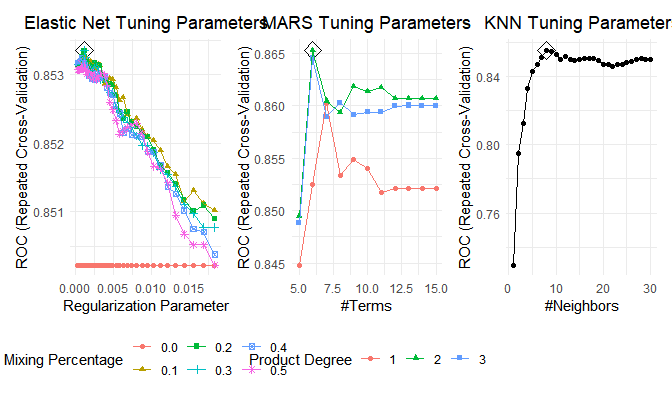
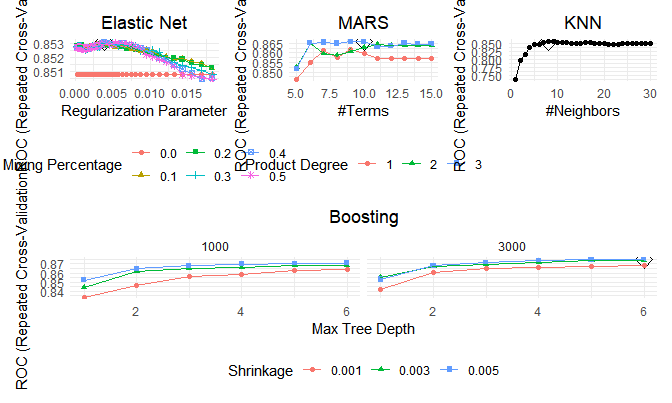
boost model optimized params

diff --git a/final_project.md b/final_project.md
@@ -939,48 +939,7 @@ set.seed(37564)
 
 ctrl = trainControl(method = "repeatedcv", summaryFunction = twoClassSummary, classProbs = T, number = 10, repeats = 5)
 
-mod_glm = train(survived ~ .,
-                na.action = na.exclude, 
-                data = train_df, 
-                method = "glm", 
-                family = "binomial", 
-                metric = "ROC", 
-                trControl = ctrl)
-summary(mod_glm)
-```
-
-    ## 
-    ## Call:
-    ## NULL
-    ## 
-    ## Deviance Residuals: 
-    ##     Min       1Q   Median       3Q      Max  
-    ## -2.7220  -0.6460  -0.3796   0.6329   2.4461  
-    ## 
-    ## Coefficients:
-    ##              Estimate Std. Error z value Pr(>|z|)    
-    ## (Intercept)  4.432931   0.535936   8.271  < 2e-16 ***
-    ## pclass2     -1.189637   0.329197  -3.614 0.000302 ***
-    ## pclass3     -2.395220   0.343356  -6.976 3.04e-12 ***
-    ## sexmale     -2.637859   0.223006 -11.829  < 2e-16 ***
-    ## age         -0.043308   0.008322  -5.204 1.95e-07 ***
-    ## sib_sp      -0.362925   0.129290  -2.807 0.005000 ** 
-    ## parch       -0.060365   0.123944  -0.487 0.626233    
-    ## fare         0.001451   0.002595   0.559 0.576143    
-    ## embarkedQ   -0.823379   0.600200  -1.372 0.170113    
-    ## embarkedS   -0.402848   0.274556  -1.467 0.142303    
-    ## ---
-    ## Signif. codes:  0 '***' 0.001 '**' 0.01 '*' 0.05 '.' 0.1 ' ' 1
-    ## 
-    ## (Dispersion parameter for binomial family taken to be 1)
-    ## 
-    ##     Null deviance: 960.90  on 711  degrees of freedom
-    ## Residual deviance: 632.34  on 702  degrees of freedom
-    ## AIC: 652.34
-    ## 
-    ## Number of Fisher Scoring iterations: 5
-
-``` r
+set.seed(37564)
 mod_enet = train(survived ~ .,
                  na.action = na.exclude, 
                  data = train_df, 
@@ -992,15 +951,16 @@ mod_enet = train(survived ~ .,
                  trControl = ctrl)
 tuning_plot_enet = 
   ggplot(mod_enet, highlight = T) + 
-  ggtitle("Elastic Net Tuning Parameters") +
+  ggtitle("Elastic Net") +
   theme(plot.title = element_text(hjust = 0.5))
 mod_enet$bestTune
 ```
 
     ##     alpha      lambda
-    ## 167   0.3 0.001238471
+    ## 231   0.4 0.003883492
 
 ``` r
+set.seed(37564)
 mod_mars = train(survived ~ ., 
                  na.action = na.exclude, 
                  data = train_df, 
@@ -1010,15 +970,16 @@ mod_mars = train(survived ~ .,
                  trControl = ctrl)
 tuning_plot_mars = 
   ggplot(mod_mars, highlight = T) + 
-  ggtitle("MARS Tuning Parameters") +
+  ggtitle("MARS") +
   theme(plot.title = element_text(hjust = 0.5))
 mod_mars$bestTune
 ```
 
     ##    nprune degree
-    ## 13      6      2
+    ## 28     10      3
 
 ``` r
+set.seed(37564)
 mod_knn = train(survived ~ .,
                 na.action = na.exclude, 
                 data = train_df, 
@@ -1029,7 +990,7 @@ mod_knn = train(survived ~ .,
                 trControl = ctrl)
 tuning_plot_knn = 
   ggplot(mod_knn, highlight = T) + 
-  ggtitle("KNN Tuning Parameters") +
+  ggtitle("KNN") +
   theme(plot.title = element_text(hjust = 0.5))
 mod_knn$bestTune
 ```
@@ -1038,13 +999,36 @@ mod_knn$bestTune
     ## 8 8
 
 ``` r
-tuning_plot_enet + tuning_plot_mars + tuning_plot_knn
+set.seed(37564)
+mod_boost = train(survived ~ .,
+                  na.action = na.exclude,
+                  data = train_df,
+                  method = "gbm",
+                  tuneGrid = expand.grid(n.trees = c(1000, 3000),
+                                         interaction.depth = 1:6,
+                                         shrinkage = c(0.001, 0.003, 0.005), 
+                                         n.minobsinnode = 1),
+                  metric = "ROC",
+                  trControl = ctrl,
+                  verbose = F)
+tuning_plot_boost = 
+  ggplot(mod_boost, highlight = T) + 
+  ggtitle("Boosting") +
+  theme(plot.title = element_text(hjust = 0.5))
+mod_boost$bestTune
+```
+
+    ##    n.trees interaction.depth shrinkage n.minobsinnode
+    ## 36    3000                 6     0.005              1
+
+``` r
+(tuning_plot_enet + tuning_plot_mars + tuning_plot_knn) / tuning_plot_boost
 ```
 
 <img src="final_project_files/figure-gfm/models-1.png" width="80%" style="display: block; margin: auto;" />
 
 ``` r
-res = resamples(list(GLM = mod_glm, ENET = mod_enet, MARS = mod_mars, KNN = mod_knn))
+res = resamples(list(ENET = mod_enet, MARS = mod_mars, KNN = mod_knn, BOOST = mod_boost))
 summary(res)
 ```
 
@@ -1052,29 +1036,29 @@ summary(res)
     ## Call:
     ## summary.resamples(object = res)
     ## 
-    ## Models: GLM, ENET, MARS, KNN 
+    ## Models: ENET, MARS, KNN, BOOST 
     ## Number of resamples: 50 
     ## 
     ## ROC 
-    ##           Min.   1st Qu.    Median      Mean   3rd Qu.      Max. NA's
-    ## GLM  0.7356322 0.8164989 0.8458204 0.8527283 0.8907659 0.9556650    0
-    ## ENET 0.7311166 0.8315887 0.8547753 0.8533538 0.8805272 0.9190199    0
-    ## MARS 0.7413793 0.8299920 0.8695679 0.8652635 0.9005542 0.9536125    0
-    ## KNN  0.7582102 0.8263823 0.8440066 0.8549761 0.8947044 0.9527915    0
+    ##            Min.   1st Qu.    Median      Mean   3rd Qu.      Max. NA's
+    ## ENET  0.7380952 0.8165637 0.8446176 0.8531036 0.8905434 0.9556650    0
+    ## MARS  0.7479475 0.8370589 0.8653053 0.8657740 0.8949097 0.9474548    0
+    ## KNN   0.7676519 0.8245074 0.8552736 0.8550413 0.8808498 0.9330870    0
+    ## BOOST 0.7654370 0.8421784 0.8723317 0.8750384 0.9051438 0.9534884    0
     ## 
     ## Sens 
-    ##           Min.   1st Qu.    Median      Mean   3rd Qu.      Max. NA's
-    ## GLM  0.6904762 0.8139535 0.8571429 0.8495127 0.8809524 0.9761905    0
-    ## ENET 0.7380952 0.8187984 0.8571429 0.8519158 0.8809524 0.9523810    0
-    ## MARS 0.6904762 0.8139535 0.8604651 0.8579845 0.9047619 1.0000000    0
-    ## KNN  0.7209302 0.8343023 0.8604651 0.8684275 0.9047619 0.9534884    0
+    ##            Min.   1st Qu.    Median      Mean   3rd Qu.      Max. NA's
+    ## ENET  0.7142857 0.8139535 0.8604651 0.8561351 0.8837209 0.9761905    0
+    ## MARS  0.7619048 0.8333333 0.8809524 0.8702436 0.9047619 0.9761905    0
+    ## KNN   0.7441860 0.8333333 0.8809524 0.8664563 0.9047619 0.9767442    0
+    ## BOOST 0.7380952 0.8571429 0.8823367 0.8899889 0.9298173 1.0000000    0
     ## 
     ## Spec 
-    ##           Min.   1st Qu.    Median      Mean   3rd Qu.      Max. NA's
-    ## GLM  0.5172414 0.6551724 0.7241379 0.7114039 0.7586207 0.8620690    0
-    ## ENET 0.5172414 0.6551724 0.7019704 0.7043596 0.7564655 0.8965517    0
-    ## MARS 0.4482759 0.6610222 0.7241379 0.7195320 0.7844828 0.8965517    0
-    ## KNN  0.4827586 0.6071429 0.6551724 0.6711330 0.7241379 0.8928571    0
+    ##            Min.   1st Qu.    Median      Mean   3rd Qu.      Max. NA's
+    ## ENET  0.5172414 0.6551724 0.7241379 0.7051970 0.7586207 0.8275862    0
+    ## MARS  0.5172414 0.6551724 0.7142857 0.7122167 0.7586207 0.8965517    0
+    ## KNN   0.4827586 0.6206897 0.6785714 0.6745567 0.7241379 0.8620690    0
+    ## BOOST 0.5517241 0.6896552 0.7241379 0.7281773 0.7912562 0.8965517    0
 
 ``` r
 bwplot(res, metric = "ROC", main = "ROC for Repeated 10-Fold CV Using Various Models")
@@ -1086,18 +1070,6 @@ bwplot(res, metric = "ROC", main = "ROC for Repeated 10-Fold CV Using Various Mo
 
 ``` r
 set.seed(37564)
-
-#vip(mod_glm, 
-#    method = "permute", 
-#    train = train_df,
-#    target = "survived",
-#    metric = "auc",
-#    reference_class = c("yes", "no"),
-#    nsim = 1000,
-#    pred_wrapper = predict,
-#    geom = "boxplot", 
-#    all_permutations = T,
-#    mapping = aes_string(fill = "Variable", alpha = 0.75))
 
 #vip(mod_enet, 
 #    method = "permute", 
@@ -1111,22 +1083,18 @@ set.seed(37564)
 #    all_permutations = T,
 #    mapping = aes_string(fill = "Variable", alpha = 0.75))
 
-vip(mod_mars, 
-    method = "permute", 
-    train = train_df,
-    target = "survived",
-    metric = "auc",
-    reference_class = c("yes", "no"),
-    nsim = 1000,
-    pred_wrapper = predict,
-    geom = "boxplot", 
-    all_permutations = T,
-    mapping = aes_string(fill = "Variable", alpha = 0.75))
-```
+#vip(mod_mars, 
+#    method = "permute", 
+#    train = train_df,
+#    target = "survived",
+#    metric = "auc",
+#    reference_class = c("yes", "no"),
+#    nsim = 30,
+#    pred_wrapper = predict,
+#    geom = "boxplot", 
+#    all_permutations = T,
+#    mapping = aes_string(fill = "Variable", alpha = 0.75))
 
-<img src="final_project_files/figure-gfm/vip-1.png" width="80%" style="display: block; margin: auto;" />
-
-``` r
 #vip(mod_knn, 
 #    method = "permute", 
 #    train = train_df,
@@ -1138,4 +1106,59 @@ vip(mod_mars,
 #    geom = "boxplot", 
 #    all_permutations = T,
 #    mapping = aes_string(fill = "Variable", alpha = 0.75))
+
+vip(mod_boost, 
+    method = "permute", 
+    train = train_df,
+    target = "survived",
+    metric = "auc",
+    reference_class = c("yes", "no"),
+    nsim = 30,
+    pred_wrapper = predict,
+    geom = "boxplot", 
+    all_permutations = T,
+    mapping = aes_string(fill = "Variable", alpha = 0.75))
 ```
+
+<img src="final_project_files/figure-gfm/vip-1.png" width="80%" style="display: block; margin: auto;" />
+
+## Prediction
+
+``` r
+set.seed(37564)
+
+test_df = 
+  read_csv("./data/test.csv") %>% 
+  janitor::clean_names() %>% 
+  mutate(pclass = as.factor(pclass), 
+         sex = as.factor(sex), 
+         embarked = as.factor(embarked)) %>% 
+  select(-c(ticket, cabin, name, passenger_id)) %>% 
+  drop_na()
+
+pred_mars = predict(mod_mars, newdata = test_df, type = "prob")[,1]
+pred_boost = predict(mod_boost, newdata = test_df, type = "prob")[,1]
+diff_df = 
+  tibble(pred_boost, pred_mars) %>% 
+  mutate(
+    boost_surv = ifelse(pred_boost > 0.5, "Y", "N"), 
+    mars_surv = ifelse(pred_mars > 0.5, "Y", "N"), 
+    diff = ifelse(boost_surv == mars_surv, "Y", "N"))
+diff_df %>% 
+  filter(diff == "N")
+```
+
+    ## # A tibble: 34 x 5
+    ##    pred_boost pred_mars boost_surv mars_surv diff 
+    ##         <dbl>     <dbl> <chr>      <chr>     <chr>
+    ##  1      0.889    0.349  Y          N         N    
+    ##  2      0.667    0.375  Y          N         N    
+    ##  3      0.814    0.358  Y          N         N    
+    ##  4      0.592    0.0708 Y          N         N    
+    ##  5      0.493    0.574  N          Y         N    
+    ##  6      0.449    0.739  N          Y         N    
+    ##  7      0.353    0.574  N          Y         N    
+    ##  8      0.755    0.420  Y          N         N    
+    ##  9      0.215    0.505  N          Y         N    
+    ## 10      0.631    0.296  Y          N         N    
+    ## # ... with 24 more rows
